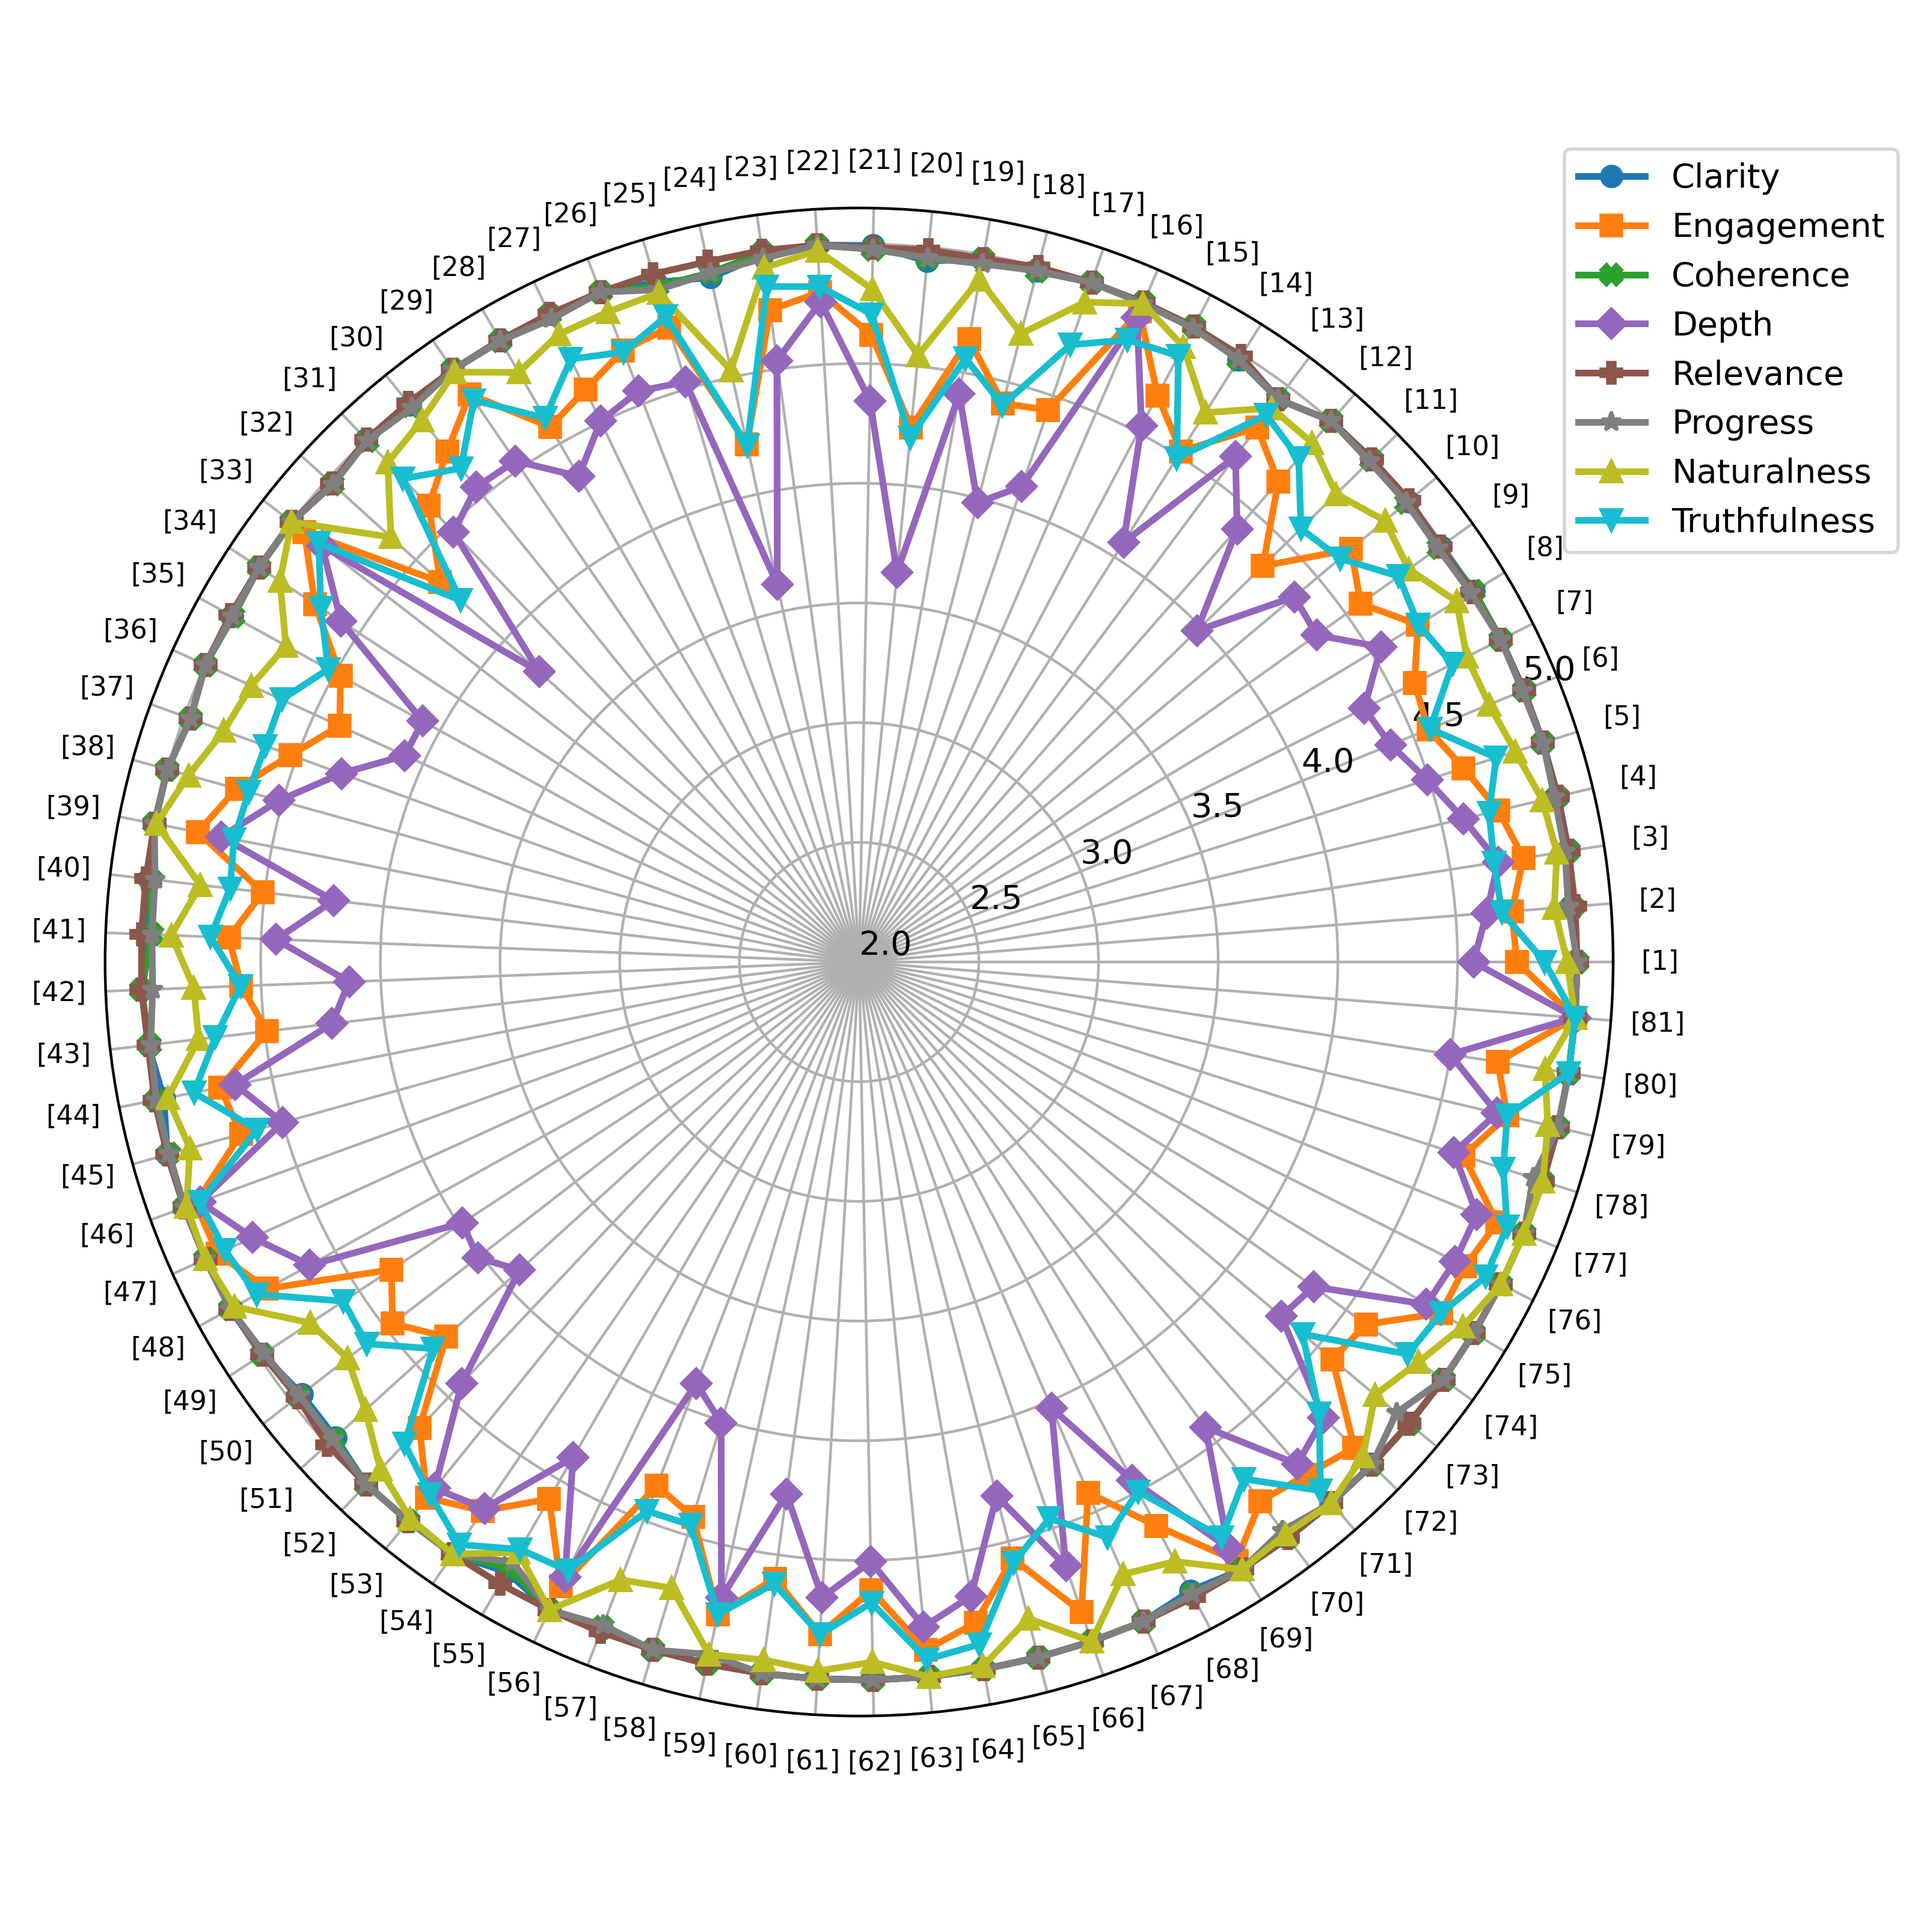
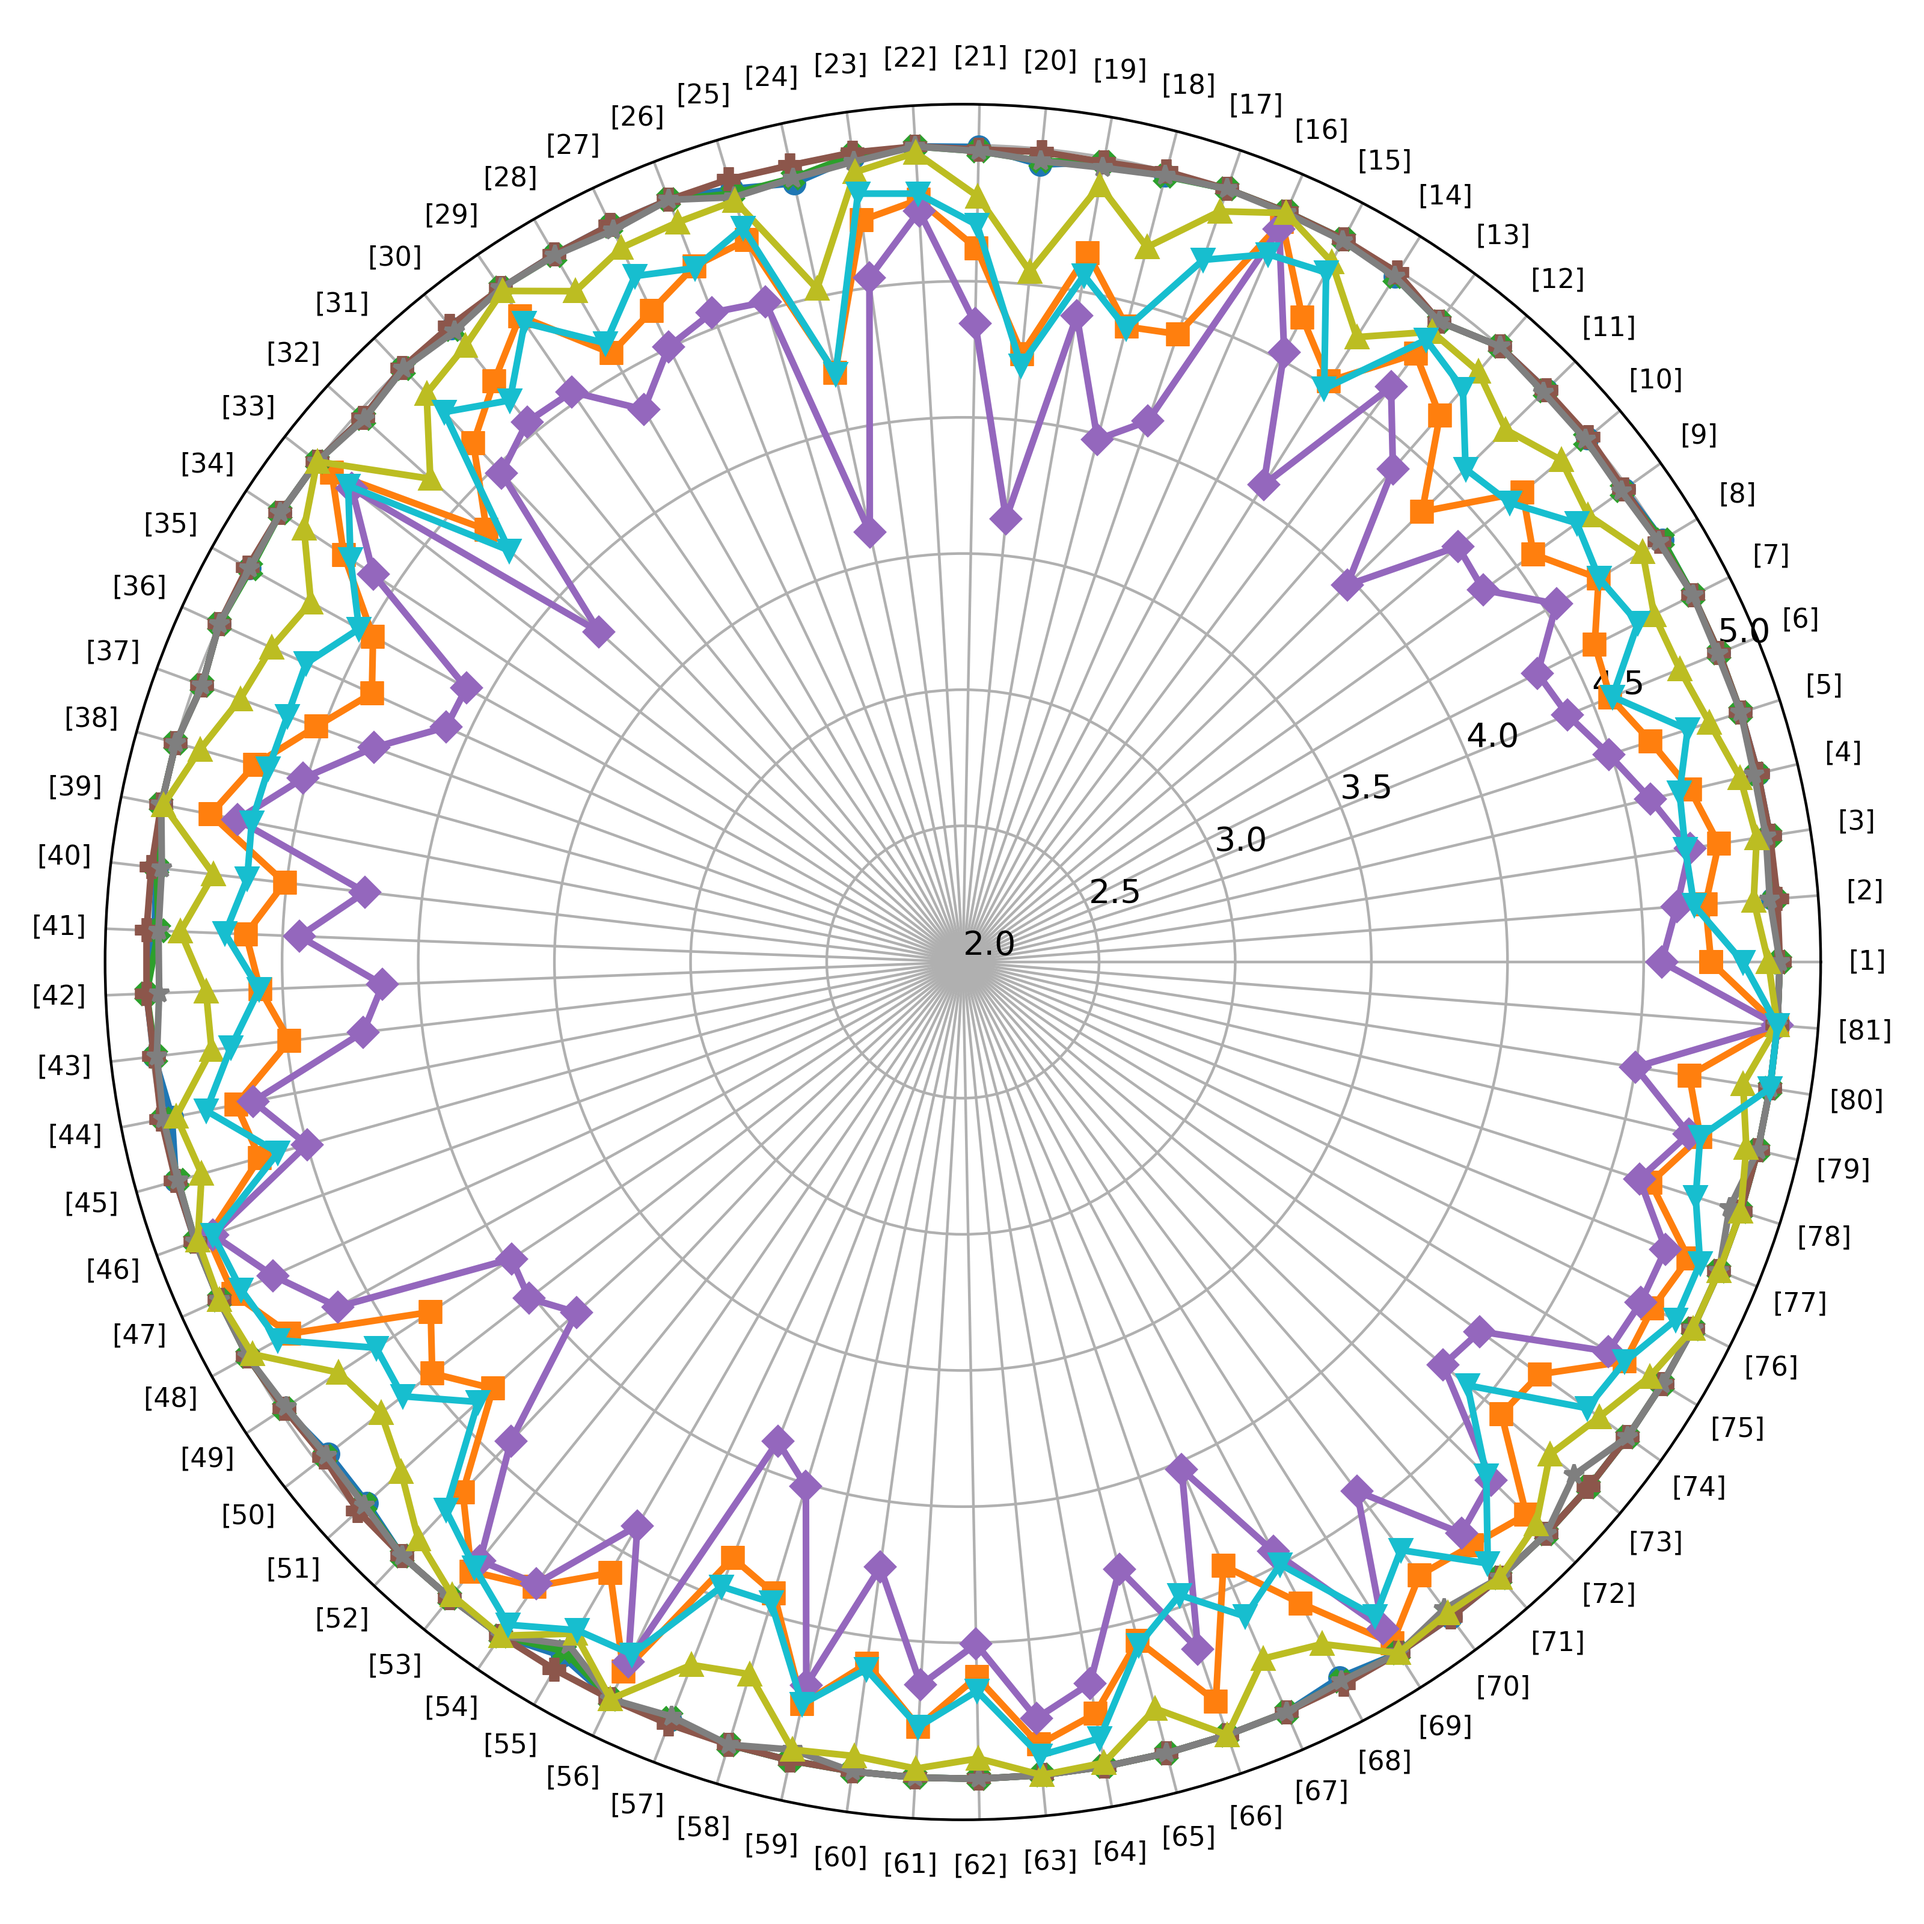
update plots

Changed region(s): [[0.0312, 0.0312, 1.0, 0.9688]]

diff --git a/utils/plot_result_per_topic.py b/utils/plot_result_per_topic.py
@@ -17,7 +17,10 @@ def plot_tasks_per_topic(df, fpath):
     # Make the plot circular by repeating the first angle at the end
     angles += angles[:1]
 
-    fig, ax = plt.subplots(figsize=(8, 8), subplot_kw=dict(polar=True))
+    if plot_legend:
+        fig, ax = plt.subplots(figsize=(12, 12), subplot_kw=dict(polar=True))
+    else:
+        fig, ax = plt.subplots(figsize=(8, 8), subplot_kw=dict(polar=True))
 
     # Prepare the x-ticks: [Topic1, Topic2, ...] with angle wrapping
     ax.set_xticks(angles[:-1])
@@ -33,6 +36,8 @@ def plot_tasks_per_topic(df, fpath):
         color=colors(i),
         linewidth=2,
         markersize=6)
+        # Fill area under the plot
+        # ax.fill(angles, values, color=colors(i), alpha=0.1)
 
     # Add labels to radial axis
     ax.set_ylim(2, 5.15)
@@ -45,12 +50,17 @@ def plot_tasks_per_topic(df, fpath):
     #     ax.text(angle, 5.4, f"[{i+1}]", ha='center', va='center', fontsize=6)
 
     # Add legend
-    ax.legend(loc='upper right', bbox_to_anchor=(1.2, 1.05), fontsize=10)
+    if plot_legend:
+        ax.legend(loc='upper right', bbox_to_anchor=(1.2, 1.05), fontsize=10, ncols=len(metrics), framealpha=1.0)
+        suffix = '_legend'
+    else:
+        suffix = ''
 
     # Save the plot
     plt.tight_layout()
-    plt.savefig(fpath.replace('result', 'figure').replace('.json','.png'), dpi=400)
+    plt.savefig(fpath.replace('result', 'figure').replace('.json',f'{suffix}.png'), dpi=400)
     plt.close()
+
 
 def compute_result_per_topic(fpath):
     df_tasks_per_topic = pd.read_csv(file_tasks_per_topic) # TOPIC x 3
@@ -73,19 +83,21 @@ if __name__ == "__main__":
     if len(sys.argv)==2:
         """
         Usage example:
-        python utils/post_result_per_topic.py result/T-openchat_L-openchat_E-openchat_11297606_corrected.json
+        python utils/plot_result_per_topic.py result/T-openchat_L-openchat_E-openchat_11297606_corrected.json
         """
+        plot_legend = True
         compute_result_per_topic(fpath=sys.argv[1])
     elif len(sys.argv)==1:
-        # fpath = "result/T-deepseek-llm_L-deepseek-llm_E-deepseek-llm_012.json"
+        plot_legend = False
         fpaths = [
+            'T-openchat_L-openchat_E-openchat_11297606_corrected.json',
             'T-deepseek-llm_L-deepseek-llm_E-deepseek-llm_11246257_corrected.json',
             'T-qwen2_L-qwen2_E-qwen2_11236934_corrected.json',
             'T-gemma_L-gemma_E-gemma_11269574_corrected.json',
             'T-olmo2_L-olmo2_E-olmo2_11370185_corrected.json',
-            'T-openchat_L-openchat_E-openchat_11297606_corrected.json',
             'T-llama3_L-llama3_E-llama3_11232754_corrected.json',
             'T-phi4_L-phi4_E-phi4_11269383_corrected.json',
         ]
-        for fpath in fpaths:
+
+        for i, fpath in enumerate(fpaths):
             compute_result_per_topic(fpath=f"result/{fpath}")
